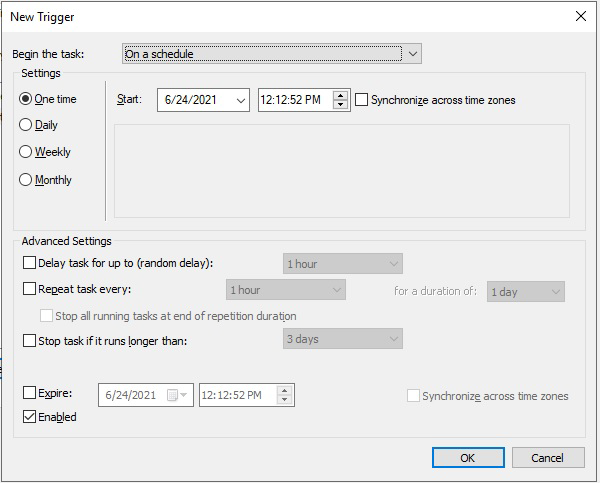
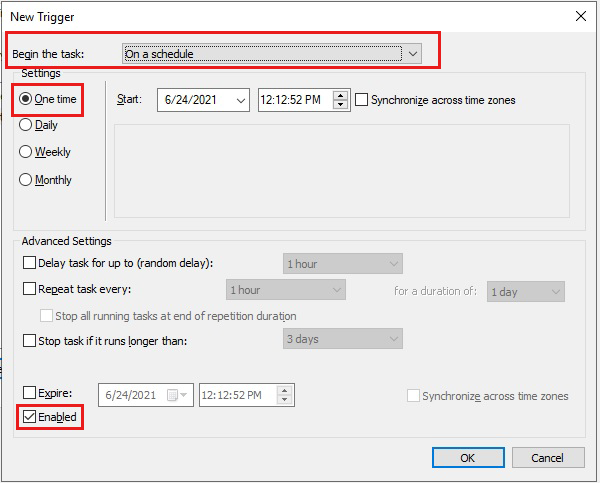
First draft complete

Changed region(s): [[0.0, 0.0621, 0.75, 0.2484], [0.0, 0.8385, 0.15, 0.9006]]

diff --git a/articles/azure-arc/servers/onboard-group-policy.md b/articles/azure-arc/servers/onboard-group-policy.md
@@ -14,22 +14,27 @@ After setting up a local remote share with the Connected Machine Agent and defin
 
 Before you get started, be sure to review the [prerequisites](prerequisites.md) and verify that your subscription and resources meet the requirements. For information about supported regions and other related considerations, see [supported Azure regions](overview.md#supported-regions). Also review our [at-scale planning guide](plan-at-scale-deployment.md) to understand the design and deployment criteria, as well as our management and monitoring recommendations.  
 
-
 If you don't have an Azure subscription, create a [free account](https://azure.microsoft.com/free/?WT.mc_id=A261C142F) before you begin.
 
 ## Prepare a remote share
 
-The Group Policy to onboard Azure Arc-enabled servers will leverage a remote share with the Connected Machine Agent. You will need to: 1. <!-- Step 1 -->
+The Group Policy to onboard Azure Arc-enabled servers utilizes a remote share with the Connected Machine Agent. You will need to:
 
-1. Prepare a remote share to host the Azure Connected Machine agent package for windows and the configuration file. You need to be able to add files to the distributed location.
-1. Download the Connected Machine Agent to the remote share. Download [Windows agent Windows Installer package](https://aka.ms/AzureConnectedMachineAgent) from the Microsoft Download Center and save it to the remote share. 
+1. Prepare a remote share to host the Azure Connected Machine agent package for Windows and the configuration file. You need to be able to add files to the distributed location.
+
+1. Download [Windows agent Windows Installer package](https://aka.ms/AzureConnectedMachineAgent) from the Microsoft Download Center and save it to the remote share. 
 
 ## Generate an onboarding script and configuration file from Azure Portal
 
 Before you can run the script to connect your machines, you'll need to do the following:
 
-1. Follow the steps to [create a service principal for onboarding at scale](onboard-service-principal.md#create-a-service-principal-for-onboarding-at-scale). Assign the Azure Connected Machine Onboarding role to your service principal and limit the scope of the role to the target Azure landing zone. Make a note of the Service Principal Secret, as you'll need this value later.
-1. Modify and save the following configuration file to the remote share as "ArcConfig.json". Edit the file with your Azure subscription, resource group, and location details. Insert the service principal details from Step 1 into the last two fields. Note, the group policy will land assigned machines to the subscription, resource group, and region specified in this configuration file.
+1. Follow the steps to [create a service principal for onboarding at scale](onboard-service-principal.md#create-a-service-principal-for-onboarding-at-scale).
+
+    * Assign the Azure Connected Machine Onboarding role to your service principal and limit the scope of the role to the target Azure landing zone.
+
+    * Make a note of the Service Principal Secret; you'll need this value later.
+
+1. Modify and save the following configuration file to the remote share as **ArcConfig.json**. Edit the file with your Azure subscription, resource group, and location details. Use the service principal details from step 1 into for last two fields.
 
 ```
 { 
@@ -42,13 +47,17 @@ Before you can run the script to connect your machines, you'll need to do the fo
     } 
 ```
 
+The group policy will land assigned machines to the subscription, resource group, and region specified in this configuration file.
+
 ## Modify and save the onboarding script
 
 Before you can run the script to connect your machines, you'll need to modify and save the onboarding script:
 
-1. Edit the field for remotePath to reflect the distributed share location with the configuration file and Connected Machine Agent.
-1. Edit the localPath with the local path where the logs generated from the onboarding to Azure Arc-enabled servers will be saved per machine.
-1. Save the modified onboarding script locally and note its location since this will be referenced in authoring the Group Policy Object.
+1. Edit the field for `remotePath` to reflect the distributed share location with the configuration file and Connected Machine Agent.
+
+1. Edit the `localPath` with the local path where the logs generated from the onboarding to Azure Arc-enabled servers will be saved per machine.
+
+1. Save the modified onboarding script locally and note its location. This will be referenced when authoring the Group Policy Object.
 
 ```azurecli
 [string] $remotePath = "\\dc-01.contoso.lcl\Software\Arc"
@@ -93,63 +102,72 @@ function Deploy-Agent {
 Deploy-Agent
 ```
 
+## Create a Group Policy Object
 
-
-## Create a group policy object
-
-Next, create a new Group Policy Object (GPO) to run the onboarding script using the configuration file details. 
+Create a new Group Policy Object (GPO) to run the onboarding script using the configuration file details: 
 
 1. Open the Group Policy Management Console (GPMC). 
-1. Navigate to the Organization Unit (OU), Domain, or Security Group in your AD forest that contains the machines, which you would like to onboard to Azure Arc-enabled servers. 
-1. Right click on this set of resources, and select "Create a GPO in this domain, and Link it here."  
-1. Assign the name “Onboard servers to Azure Arc-enabled servers” to this new Group Policy Object (GPO) 
 
+1. Navigate to the Organization Unit (OU), Domain, or Security Group in your AD forest that contains the machines you want to onboard to Azure Arc-enabled servers. 
+
+1. Right-click on this set of resources and select **Create a GPO in this domain, and Link it here.**  
+
+1. Assign the name “Onboard servers to Azure Arc-enabled servers” to this new Group Policy Object (GPO).
 
 ## Create a scheduled task
 
-We must edit the newly created GPO to run the onboarding script at the appropriate cadence. We will leverage Group Policy’s built-in Scheduled Task capabilities for our use case. 
+The newly created GPO needs to be modified to run the onboarding script at the appropriate cadence. Use Group Policy’s built-in Scheduled Task capabilities to do so: 
 
-1. To edit the GPO, navigate to the following location: Computer Configuration -> Preferences -> Control Panel Settings -> Scheduled Tasks.
-1. Next, right-click in the blank area, and select New -> Scheduled Task. 
+1. Select **Computer Configuration > Preferences > Control Panel Settings > Scheduled Tasks**.
 
-Note, your workstation must be running Windows 7 or higher to be able to create a Scheduled Task from Group Policy Management Console. 
+1. Right-click in the blank area and select **New > Scheduled Task**. 
+
+Your workstation must be running Windows 7 or higher to be able to create a Scheduled Task from Group Policy Management Console. 
 
 ### Assign the appropriate general information
 
 Follow the next steps for the different parameters under Security options: 
 
-1. For the field ‘When running the task, use the following user account:’, enter "NT AUTHORITY\System". 
-1. Select the option to ‘Run whether user is logged on or not’ 
-1. Select the checkbox to ‘Run with highest privileges’ 
+1. In the field **When running the task, use the following user account:**, enter "NT AUTHORITY\System". 
 
-In the field ‘Configure for’, select the option ‘Choose Windows Vista or Window 2008’. 
+1. Select **Run whether user is logged on or not**. 
+
+1. Check the box for **Run with highest privileges**. 
+
+1. In the field **Configure for**, select **Choose Windows Vista or Window 2008**. 
 
 :::image type="content" source="media/onboard-group-policy/st-general.png" alt-text="Screenshot of the Azure Arc agent Deployment and Configuration properties window." :::
 
-### Assign the appropriate triggers information
+### Assign the appropriate triggers parameters
 
-Select the new button in the Triggers tab. Within the New Trigger window, follow the next steps for the different parameters: 
+In the **Triggers** tab, select **New**, then enter the following parameters in the **New Triggers** window:
 
-1. In the field ‘Begin the task’, select the option ‘On a schedule’. 
-1. Under Settings, select ‘One time’ and enter the date and time to schedule the task for.  
-1. Under Advanced Settings, select the checkbox next to Enabled.  
+1. In the field **Begin the task**, select **On a schedule**. 
 
-Upon specifying the trigger parameters, click on the ‘OK’ button. 
+1. Under Settings, select **One time** and enter the date and time for the task to run.  
+
+1. Under Advanced Settings, check the box for **Enabled**.  
+
+1. Once you've set the trigger parameters, select **OK**. 
 
 :::image type="content" source="media/onboard-group-policy/new-trigger.png" alt-text="Screenshot of the New Trigger window." :::
 
+### Assign the appropriate actions parameters
 
-### Assign the appropriate actions information
+In the **Actions** tab, select **New**, then enter the follow parameters in the **New Actions** window: 
 
-Select the new button in the Actions tab. Within the New Action window, follow the next steps for the different parameters: 
+1. For Action, select **Start a program** from the dropdown.  
 
-1. For Action, select ‘Start a program’ from the dropdown.  
-1. For Program/script under settings, enter "C:\Windows\System32\WindowsPowerShell\v1.0\powershell.exe" 
-1. For Add Arguments (optional) under settings, enter  
--ExecutionPolicy Bypass -command “INSERT PATH TO DEPLOYMENT SCRIPT”. Note that you must enter the location of the deployment script, modified earlier with the DeploymentPath and LocalPath, instead of the placeholder “INSERT PATH TO DEPLOYMENT SCRIPT”. 
-1. For Start In (Optional), enter ‘C:\’ 
+1. For **Program/script**, enter `C:\Windows\System32\WindowsPowerShell\v1.0\powershell.exe`.
 
-Upon specifying the action parameters, click on the ‘OK’ button. 
+1. For **Add Arguments (optional)**, enter  
+`-ExecutionPolicy Bypass -command <Insert Path to Deployment Script>`. 
+
+    Note that you must enter the location of the deployment script, modified earlier with the `DeploymentPath` and `LocalPath`, instead of the placeholder <Insert Path to Deployment Script>. 
+
+1. For Start In (Optional), enter `C:\`. 
+
+1. Once you've set the action parameters, select **OK**
 
 :::image type="content" source="media/onboard-group-policy/new-action.png" alt-text="Screenshot of the New Action window." :::
 
